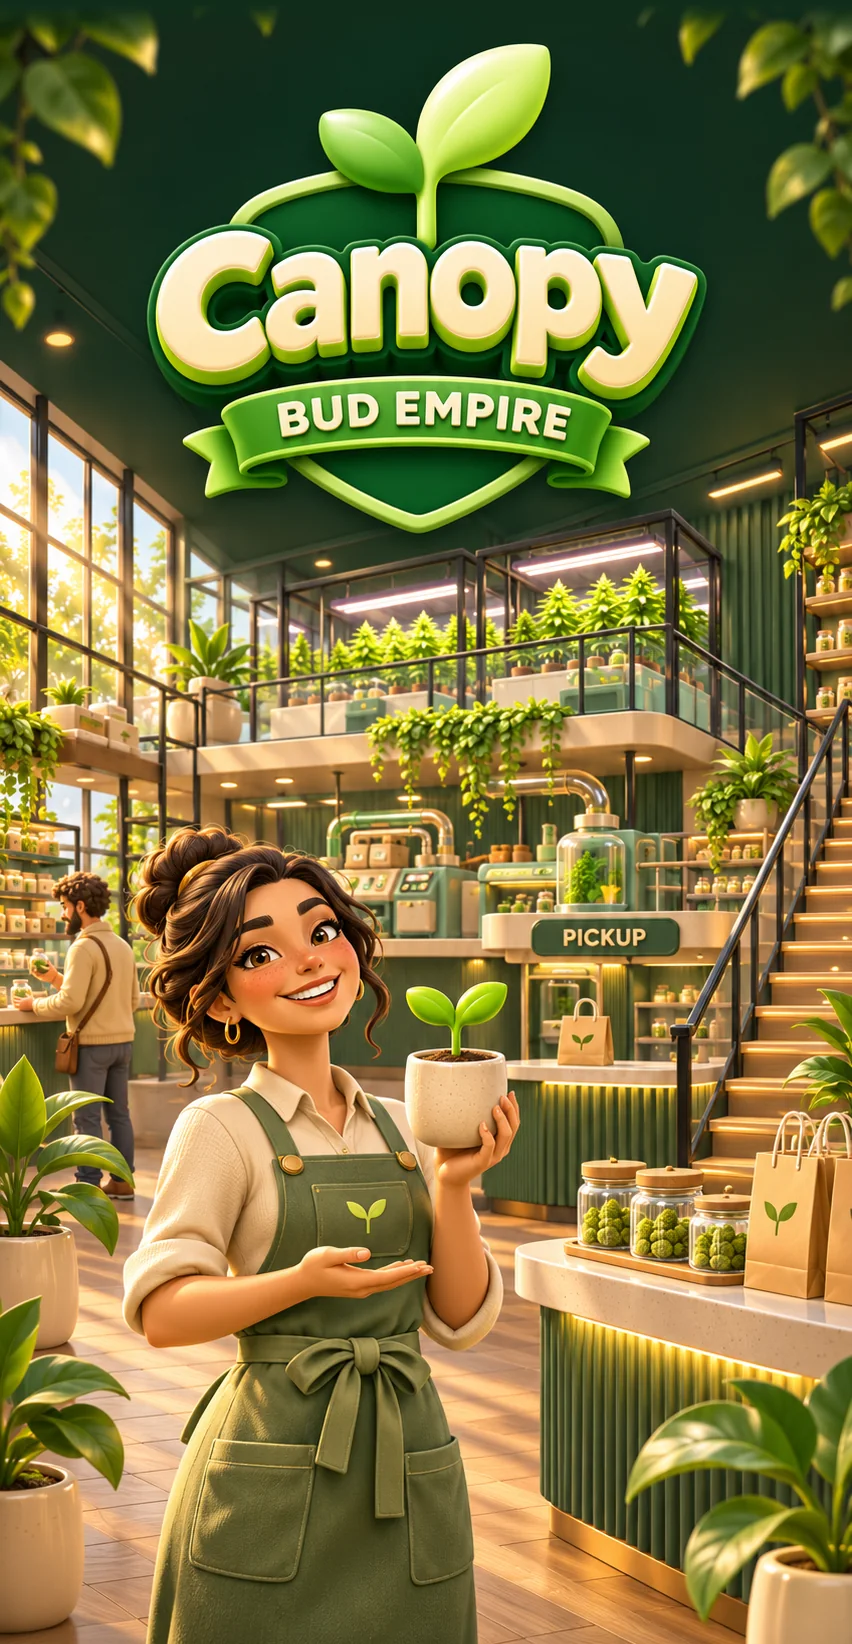
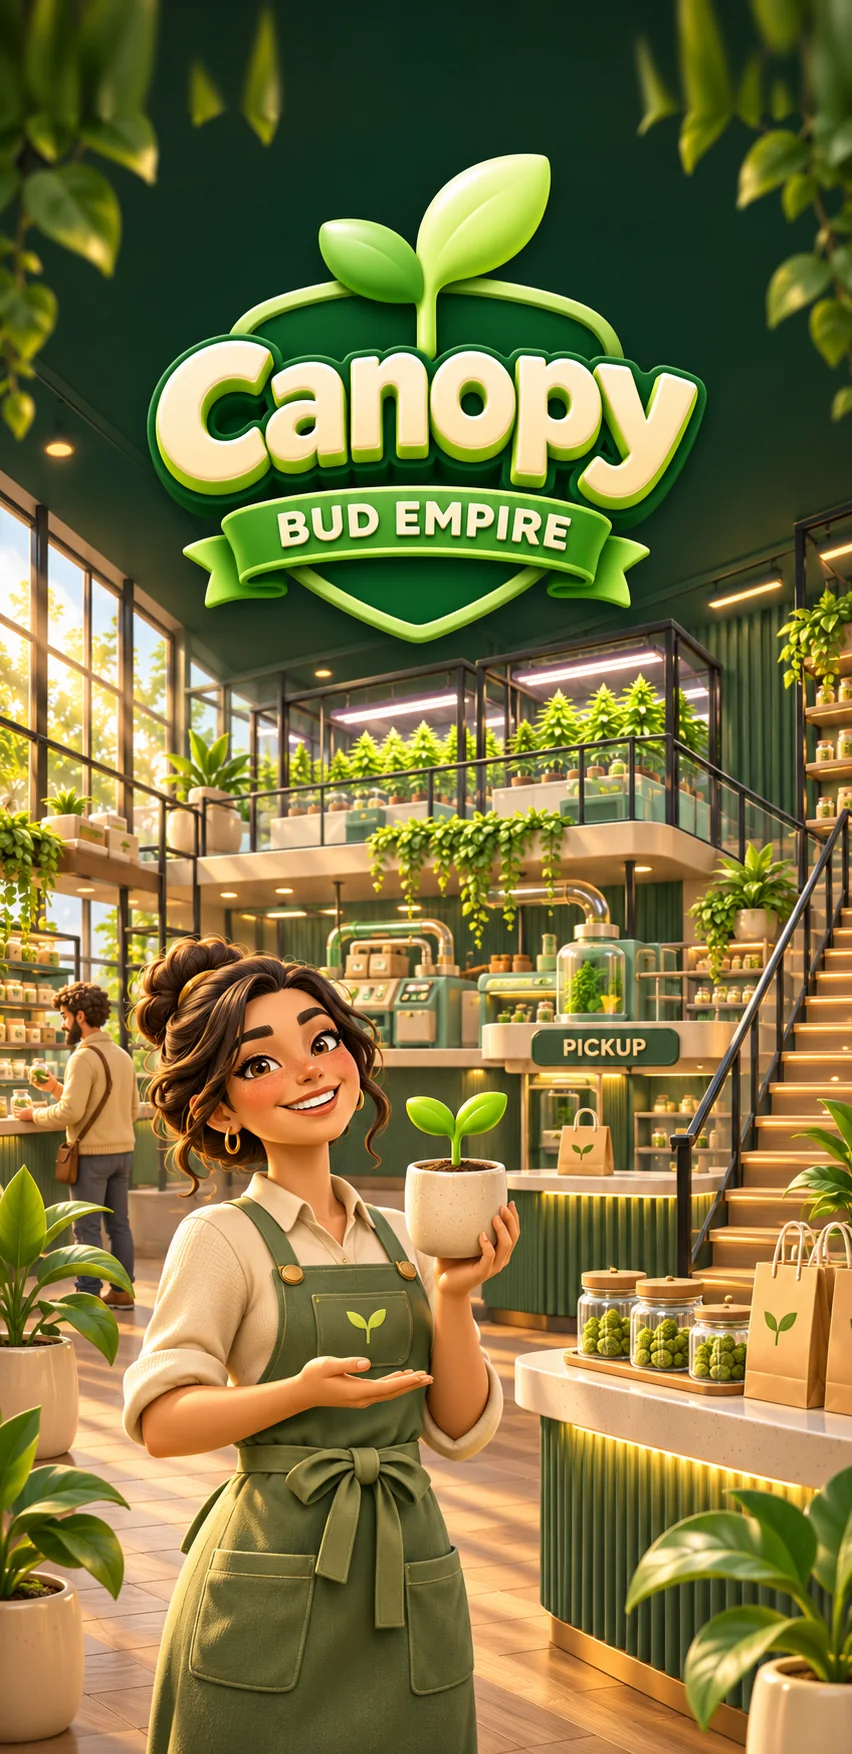
Loading art bleeds behind the status bar; sprout seated in the bar's tip
The art now runs to the top edge: 110 px of soft foliage extend the original
picture upward instead of a fade to solid green, keeping the badge clear of
the Dynamic Island. The sprout's stem now sits in the fill's rounded tip with
its foot on the fill's lower edge (web, cover and launch storyboard).

Claude-Session: https://claude.ai/code/session_01JzzMWkM7i6HWgW36bGib2V

diff --git a/ios/App/App/CanopyViewController.swift b/ios/App/App/CanopyViewController.swift
@@ -60,6 +60,9 @@ final class CanopyViewController: CAPBridgeViewController, WKScriptMessageHandle
     private var loadFillWidth: NSLayoutConstraint?
     private var loadSproutX: NSLayoutConstraint?
     private var loadShown: CGFloat = 0
+    /// Puts the sprout's stem on the fill's rounded tip: 3.5 pt back from the very end, plus 0.85 pt because the stem
+    /// sits just left of the image's centre (69 of 144 px). The launch storyboard uses the same 18 - 2.65 = 15.35 pt.
+    private let sproutStemOffset: CGFloat = -2.65
     private var pageProgress: NSKeyValueObservation?
     /// Lifts the cover if loading stalls, so the web loader's own Retry button is never hidden behind it.
     private var stallTimer: DispatchWorkItem?
@@ -145,8 +148,9 @@ final class CanopyViewController: CAPBridgeViewController, WKScriptMessageHandle
             cover.bottomAnchor.constraint(equalTo: view.bottomAnchor)
         ])
 
-        // Kevin's art: the shop with the badge on top. Its own top edge fades into the cover's green, and it starts just
-        // under the notch so the badge's sprout clears the Dynamic Island. Anchored at the top, it runs on under the band;
+        // Kevin's art: the shop with the badge on top, bleeding up behind the status bar. Its top 110 px are soft foliage
+        // added above the original picture, so the badge's sprout sits clear of the Dynamic Island. Anchored at the top,
+        // it runs on under the band;
         // only the budtender's apron gives way. On a wide screen it narrows to a centred column instead of cropping more.
         let art = UIImageView(image: UIImage(named: "LoadingArt"))
         art.contentMode = .scaleAspectFill
@@ -166,12 +170,12 @@ final class CanopyViewController: CAPBridgeViewController, WKScriptMessageHandle
         let fullWidth = art.widthAnchor.constraint(equalTo: cover.widthAnchor)
         fullWidth.priority = .defaultHigh
         NSLayoutConstraint.activate([
-            art.topAnchor.constraint(equalTo: cover.safeAreaLayoutGuide.topAnchor, constant: -12),
+            art.topAnchor.constraint(equalTo: cover.topAnchor),
             art.centerXAnchor.constraint(equalTo: cover.centerXAnchor),
-            art.heightAnchor.constraint(equalTo: art.widthAnchor, multiplier: 1644.0 / 852.0),
+            art.heightAnchor.constraint(equalTo: art.widthAnchor, multiplier: 1754.0 / 852.0),
             art.widthAnchor.constraint(lessThanOrEqualTo: cover.widthAnchor),
             fullWidth,
-            art.bottomAnchor.constraint(lessThanOrEqualTo: band.topAnchor, constant: 200),
+            art.bottomAnchor.constraint(lessThanOrEqualTo: band.topAnchor, constant: 250),
             band.leadingAnchor.constraint(equalTo: cover.leadingAnchor),
             band.trailingAnchor.constraint(equalTo: cover.trailingAnchor),
             band.bottomAnchor.constraint(equalTo: cover.bottomAnchor),
@@ -209,7 +213,7 @@ final class CanopyViewController: CAPBridgeViewController, WKScriptMessageHandle
     }
 
     /// The track is a sliced image (the launch storyboard shows it too, empty, with the sprout at its start). The fill is
-    /// a glossy lime capsule 4 pt inside it; the sprout's stem foot sits on the fill's leading end.
+    /// a glossy lime capsule 4 pt inside it; the sprout's stem is seated in the fill's rounded tip, its foot on the fill's lower edge.
     private func makeLoadBar(in band: UIView) -> UIView {
         let track = UIImageView(image: UIImage(named: "LoadTrack"))
         track.translatesAutoresizingMaskIntoConstraints = false
@@ -246,7 +250,7 @@ final class CanopyViewController: CAPBridgeViewController, WKScriptMessageHandle
         let wide = track.widthAnchor.constraint(equalTo: band.widthAnchor, constant: -56)
         wide.priority = .defaultHigh
         let fillWidth = fill.widthAnchor.constraint(equalToConstant: 14)
-        let sproutX = sprout.centerXAnchor.constraint(equalTo: track.leadingAnchor, constant: 4)
+        let sproutX = sprout.centerXAnchor.constraint(equalTo: track.leadingAnchor, constant: 4 + 14 + sproutStemOffset)
         NSLayoutConstraint.activate([
             track.topAnchor.constraint(equalTo: band.topAnchor, constant: 36),
             track.centerXAnchor.constraint(equalTo: band.centerXAnchor),
@@ -259,7 +263,7 @@ final class CanopyViewController: CAPBridgeViewController, WKScriptMessageHandle
             fillWidth,
             sprout.widthAnchor.constraint(equalToConstant: 40),
             sprout.heightAnchor.constraint(equalToConstant: 39.5),
-            sprout.bottomAnchor.constraint(equalTo: track.bottomAnchor, constant: -7),
+            sprout.bottomAnchor.constraint(equalTo: track.bottomAnchor, constant: -4),
             sproutX
         ])
         loadBar = track
@@ -278,8 +282,9 @@ final class CanopyViewController: CAPBridgeViewController, WKScriptMessageHandle
         bar.accessibilityValue = "\(Int((target * 100).rounded())) percent"
         cover.layoutIfNeeded()
         let run = max(bar.bounds.width - 8, 0) * target
-        loadFillWidth?.constant = max(14, run)
-        loadSproutX?.constant = 4 + run
+        let fillWidth = max(14, run)
+        loadFillWidth?.constant = fillWidth
+        loadSproutX?.constant = 4 + fillWidth + sproutStemOffset
         bar.subviews.first?.alpha = 1
         let update = { cover.layoutIfNeeded() }
         if UIAccessibility.isReduceMotionEnabled {

diff --git a/src/loading-screen.css b/src/loading-screen.css
@@ -5,13 +5,13 @@
 .loading{--band:calc(118px + var(--safe-bottom,0px));position:fixed;z-index:60;inset:0;display:block;padding:0;
   background:#102d1b;color:#f6ecc9;font-family:ui-rounded,'SF Pro Rounded','Bricolage Grotesque',system-ui,sans-serif;letter-spacing:0}
 .loading[hidden]{display:none}
-/* The art is anchored at the top so the badge never crops; only the budtender's apron gives way on short screens.
-   Its own top edge fades into this green, and it starts just under the notch so the sprout clears the island. */
-.load-art{position:absolute;left:0;right:0;top:max(0px,calc(env(safe-area-inset-top,0px) - 12px));bottom:var(--band);
+/* The art bleeds up behind the status bar: its top 110 px are soft foliage added above the original picture, so the
+   badge's sprout clears the island. Anchored at the top, only the budtender's apron gives way on short screens. */
+.load-art{position:absolute;left:0;right:0;top:0;bottom:var(--band);
   width:100%;height:auto;max-height:none;object-fit:cover;object-position:50% 0;display:block;user-select:none;-webkit-user-drag:none}
 /* Wide screens show the whole picture as a tall column, its sides fading into the green. */
 @media (min-aspect-ratio:3/4){
-  .load-art{left:50%;right:auto;width:min(100%,calc((100dvh - var(--band)) * .518));transform:translateX(-50%);
+  .load-art{left:50%;right:auto;width:min(100%,calc((100dvh - var(--band)) * .486));transform:translateX(-50%);
     -webkit-mask-image:linear-gradient(90deg,transparent,#000 9%,#000 91%,transparent);mask-image:linear-gradient(90deg,transparent,#000 9%,#000 91%,transparent)}
 }
 .load-band{position:absolute;left:0;right:0;bottom:0;height:var(--band);padding:0 28px var(--safe-bottom,0px);
@@ -22,8 +22,9 @@
 .loading .load-fill{position:absolute;left:4px;top:4px;bottom:4px;width:calc((100% - 8px) * var(--load,0));min-width:14px;border-radius:999px;
   background:linear-gradient(#c5f56a,#8fdc2a 48%,#62b314);box-shadow:inset 0 2px 0 rgba(255,255,255,.35);
   transition:width .35s ease-out}
-/* The sprout's stem foot sits on the fill's leading end. */
-.load-sprout{position:absolute;left:calc(4px + (100% - 8px) * var(--load,0));bottom:7px;width:40px;height:auto;
+/* The sprout's stem sits in the fill's rounded tip (3.5px back, +0.85px for the stem being left of the image's centre),
+   its foot on the fill's lower edge, as in Kevin's render. Matches CanopyViewController.sproutStemOffset. */
+.load-sprout{position:absolute;left:calc(4px + max(14px,(100% - 8px) * var(--load,0)) - 2.65px);bottom:4px;width:40px;height:auto;
   transform:translateX(-50%);filter:drop-shadow(0 2px 2px rgba(0,0,0,.35));transition:left .35s ease-out;pointer-events:none}
 .loading .load-band p{margin:0;font-size:19px;font-weight:700;line-height:1.2;color:#f6ecc9;text-align:center;
   text-shadow:0 2px 0 rgba(0,0,0,.25);max-width:22em;text-wrap:balance}

diff --git a/index.html b/index.html
@@ -131,7 +131,7 @@
     </section>
 
     <div class="loading" id="loading" role="status" aria-live="polite" style="--load:.06">
-      <img class="load-art" src="/src/brand/loading-art.webp" alt="" width="852" height="1644" />
+      <img class="load-art" src="/src/brand/loading-art.webp" alt="" width="852" height="1754" />
       <div class="load-band">
         <div class="load-bar" aria-hidden="true"><i class="load-fill"></i><img class="load-sprout" src="/src/brand/sprout.webp" alt="" width="48" height="47" /></div>
         <p id="loadStatus">Growing your empire…</p>
